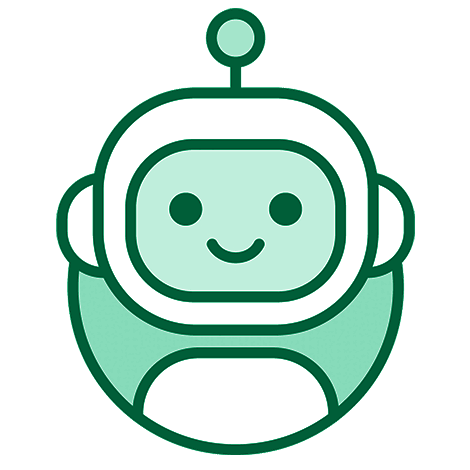
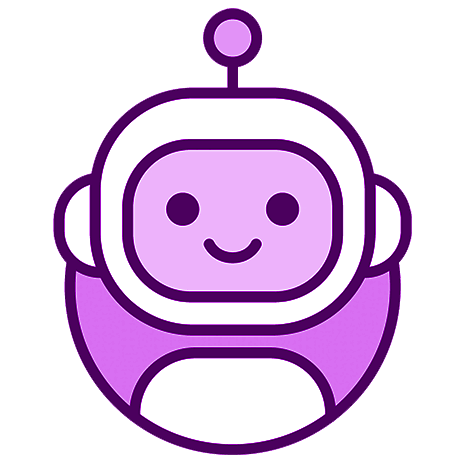
mebuat tampilan message dan feature

diff --git a/src/screens/HomeScreens.tsx b/src/screens/HomeScreens.tsx
@@ -1,10 +1,75 @@
-import { View, Text } from 'react-native'
-import React from 'react'
+import { View, Text, Image, ScrollView } from 'react-native'
+import React, { useState } from 'react'
+import {widthPercentageToDP as wp, heightPercentageToDP as hp} from 'react-native-responsive-screen';
+import { SafeAreaView } from 'react-native-safe-area-context';
+import Features from '../components/Features';
+import { dummyMessages } from '../constans';
 
 export default function HomeScreens() {
-  return (
-    <View>
-      <Text>HomeScreens</Text>
+    const [message, setMessage] = useState(dummyMessages);
+    return (
+    <View className="flex-1 bg-white">
+        <SafeAreaView className= "flex-1 flex mx-5">
+            <View className = "flex-row justify-center mt-3">
+                <Image source={require("../../assets/images/bot.png")} style = {{width:hp(15), height:hp(15)}}/>
+            </View>
+
+            {
+                message.length > 0 ? (
+                    <View className="space-y-2 flex-1">
+                        <Text style={{fontSize: wp(5)}} className="text-gray-600 font-semibold ml-1">Assistant</Text>
+
+                        <View style={{height:hp(65)}}
+                        className="bg-neutral-200 rounded-3xl p-4">
+                            <ScrollView bounces={false}
+                            className="space-y-4"
+                            showsVerticalScrollIndicator={false}>
+                                {
+                                    message.map((message, index)=>{
+                                        if(message.role =="assistant"){
+                                            if(message.Text){
+                                                return (
+                                                    <View key={index} className="flex-row justify-start ">
+                                                        <View className="p-2 flex rounded-2xl bg-fuchsia-300 rounded-tl-none">
+                                                            <Image 
+                                                            source={require("../../assets/images/iqbal.png")}
+                                                            className="rounded-2xl mx-auto"
+                                                            resizeMode="contain"
+                                                            style={{width:wp(40), height:wp(40)}}
+                                                            />
+                                                            <Text style={{width:wp(65)}}>{message.Text}</Text>
+                                                        </View>
+                                                    </View>
+                                                );
+                                            }else{
+                                                return(
+                                                    <View key={index} style={{width:wp(70)}} className="bg-fuchsia-300 rounded-xl p-2 rounded-tl-none">
+                                                        <Text>
+                                                            {message.content}
+                                                        </Text>
+                                                    </View>
+                                                )
+                                            }
+                                        }else{
+                                            return(
+                                                <View key={index} className="flex-row justify-end">
+                                                    <View style={{width:wp(70)}} className="bg-fuchsia-100 rounded-xl p-2 rounded-tr-none">
+                                                        <Text>{message.content}</Text>
+                                                    </View>
+                                                </View>
+                                            )
+                                        }
+                                    }
+                                    )
+                                }
+                            </ScrollView>
+                        </View>
+                    </View>
+                ):(
+                    <Features/>
+                )
+            }
+        </SafeAreaView>
     </View>
-  )
+    )
 }

diff --git a/src/components/Features.tsx b/src/components/Features.tsx
@@ -1,0 +1,40 @@
+import { View, Text, Image } from 'react-native'
+import React from 'react'
+import {widthPercentageToDP as wp, heightPercentageToDP as hp} from 'react-native-responsive-screen';
+
+export default function Features() {
+  return (
+    <View style={{height:hp(60)}} className= "space-y-4">
+        <Text style={{fontSize: wp(6)}} className= "font-semibold text-gray-600">Features</Text>
+        <View className="bg-fuchsia-300 p-4 rounded-xl space-y-2">
+            <View className="flex-row items-center space-x-1">
+                <Image source={require("../../assets/images/chatgptIcon.png")} style={{width:hp(4), height:hp(4)}} />
+                <Text style={{fontSize: wp(4)}} className="font-semibold text-gray-600">ChatGPT</Text>
+            </View>
+            <Text style={{fontSize: wp(3)}} className="text-gray-700 font-medium">
+                ChatGPT dapat memberi Anda tanggapan instan dan luas, membantu Anda dengan ide-ide kreatif tentang berbagai topik.
+            </Text>
+        </View>
+
+        <View className="bg-fuchsia-200 p-4 rounded-xl space-y-2">
+            <View className="flex-row items-center space-x-1">
+                <Image source={require("../../assets/images/dalleIcon.png")} style={{width:hp(4), height:hp(4)}} />
+                <Text style={{fontSize: wp(4)}} className="font-semibold text-gray-600">DALL-E</Text>
+            </View>
+            <Text style={{fontSize: wp(3)}} className="text-gray-700 font-medium">
+                DALL-E dapat menghasilkan gambar yang imajinatif dan beragam dari deskripsi tekstual, memperluas batas kreativitas visual.
+            </Text>
+        </View>
+
+        <View className="bg-fuchsia-100 p-4 rounded-xl space-y-2">
+            <View className="flex-row items-center space-x-1">
+                <Image source={require("../../assets/images/smartaiIcon.png")} style={{width:hp(4), height:hp(4)}} />
+                <Text style={{fontSize: wp(4)}} className="font-semibold text-gray-600">Smart AI</Text>
+            </View>
+            <Text style={{fontSize: wp(3)}} className="text-gray-700 font-medium">
+                Asisten suara tangguh dengan kemampuan ChatGPT dan Dall-E, memberikan Anda yang terbaik dari kedua dunia.
+            </Text>
+        </View>
+    </View>
+  )
+}

diff --git a/src/screens/welcomeScreens.tsx b/src/screens/welcomeScreens.tsx
@@ -5,24 +5,23 @@ import {widthPercentageToDP as wp, heightPercentageToDP as hp} from 'react-nativ
 import { useNavigation } from '@react-navigation/native';
 
 
-
-export default function welcomeScreens() {
+export default function WelcomeScreens() {
     const navigation = useNavigation();
     return (
-        <SafeAreaView className = "flex-1 flex justify-around bg-white">
+        <SafeAreaView className = "bg-white flex-1 flex justify-around ">
             <View className = "space-y-2">
-                <Text style = {{fontSize: wp(10)}} className = "text-center text-4xl font-bold text-gray-700">
-                    M_L4BQ1_bot
+                <Text style = {{fontSize: wp(10)}} className = "text-center text-4xl font-bold text-fuchsia-500">
+                    L4BQ1_bot
                 </Text>
-                <Text style = {{fontSize: wp(4)}}  className = "text-center tracking-wider text-gray-600 font-semibold ">
+                <Text style = {{fontSize: wp(4)}}  className = "text-center tracking-wider text-fuchsia-400 font-semibold ">
                     masa depan ada di sini, didukung oleh AI
                 </Text>
             </View>
-            <View className= "flex-row justify-center">
+            <View className= "flex-row justify-center ">
                 <Image source={require('../../assets/images/welcome.png')} style = {{width:wp(75), height:wp(75)}}/>
             </View>
-            <TouchableOpacity onPress={() => navigation.navigate('Home')} className = "bg-emerald-500 mx-5 p-5 rounded-full">
-                <Text style={{fontSize: wp(7)}} className = "text-center font-bold text-bold text-white text-xl">
+            <TouchableOpacity onPress={() => navigation.navigate('Home')} className = "bg-fuchsia-500 mx-4 p-4 rounded-full">
+                <Text style={{fontSize: wp(7)}} className = "shadow-lg text-center font-bold text-bold text-white text-xl">
                     Get Started
                 </Text>
             </TouchableOpacity>

diff --git a/src/constans/index.tsx b/src/constans/index.tsx
@@ -1,0 +1,18 @@
+export const dummyMessages = [
+    {
+        role: 'user', 
+        content: 'Apa kabar?'
+    },
+    {
+        role: 'assistant',
+        content: "Saya baik-baik saja, ada yang bisa saya bantu hari ini."
+    },
+    {
+        role: 'user',
+        content: 'Siapa pembuat aplikasi ini?'
+    },
+    {
+        role: 'assistant',
+        Text: "Saya adalah Mohammad Iqbal Maulana seorang sofware developer. Saya pembuat aplikasi ini."
+    }
+]
